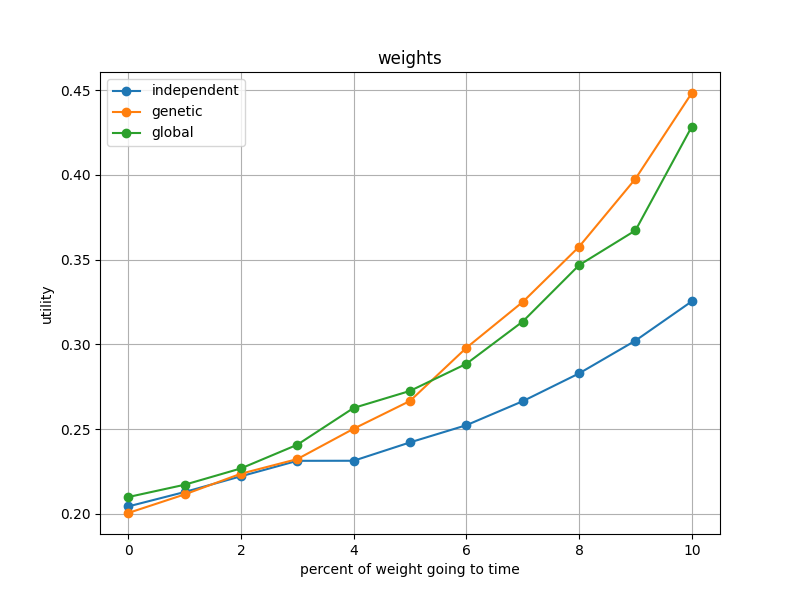
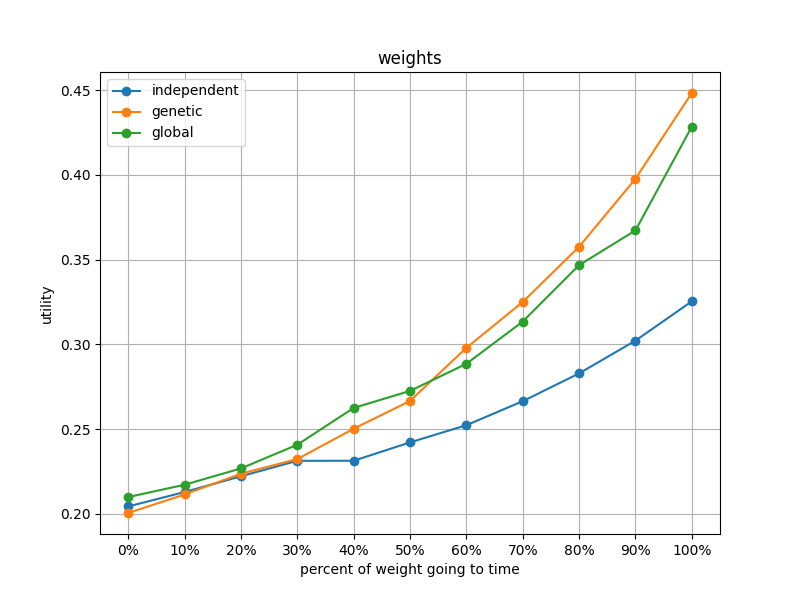
again

diff --git a/test_weights.py b/test_weights.py
@@ -63,7 +63,7 @@ plt.plot(results[2], label="global", marker='o')
 
 # Add labels, title, and legend
 plt.xlabel("percent of weight going to time")
-# plt.xticks(ticks=range(len(results[0])), labels=[f"{i * 10}%" for i in range(len(results[0]))])
+plt.xticks(ticks=range(len(results[0])), labels=[f"{i * 10}%" for i in range(len(results[0]))])
 plt.ylabel("utility")
 plt.title("weights")
 plt.legend()
